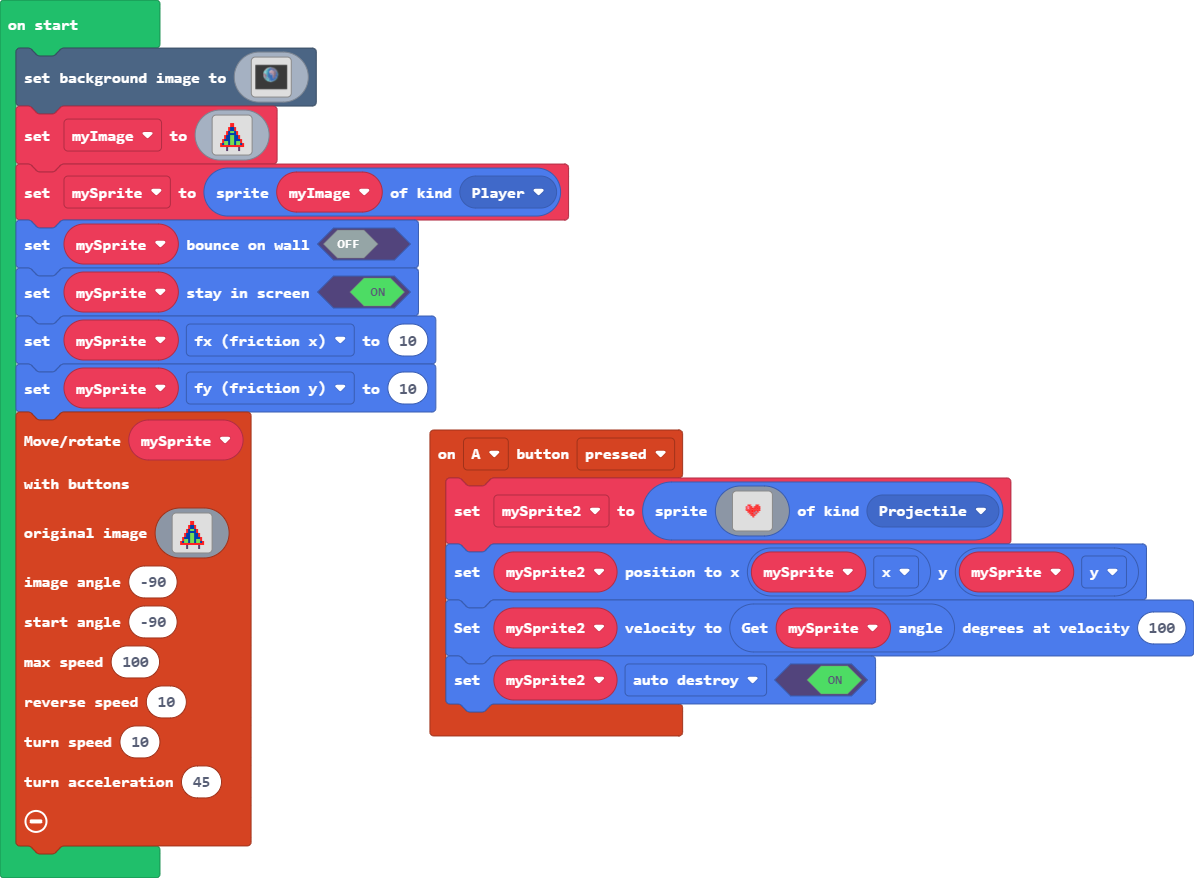
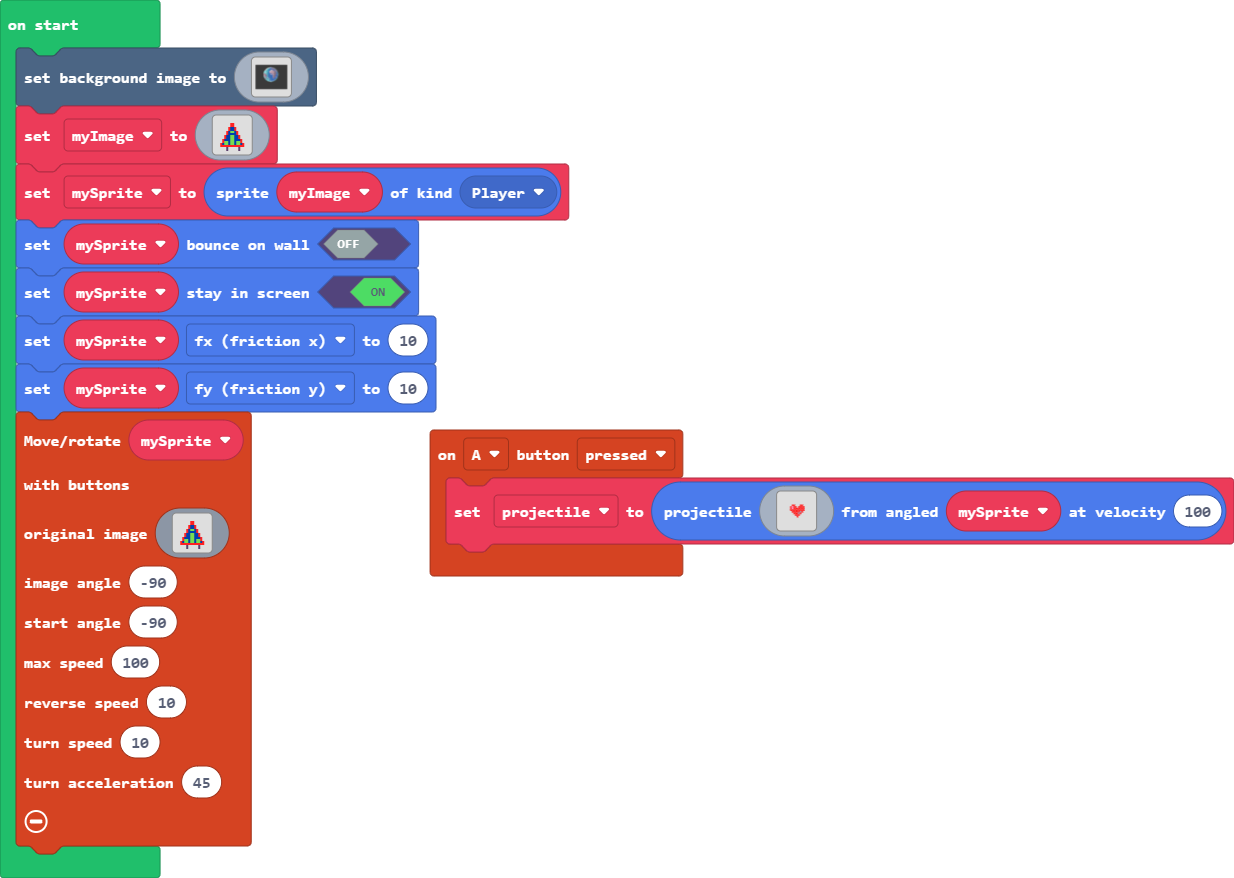
Added CreateProjectileAtAngleFromSprite

Changed region(s): [[0.0, 0.0, 1.0, 0.9533], [0.124, 0.9533, 0.1549, 1.0]]

diff --git a/imagesExt.ts b/imagesExt.ts
@@ -66,14 +66,25 @@ namespace imagesExt {
     }
 
     //% blockNamespace=sprites
-    //% block="Set $sprite=variables_get(mySprite) velocity to $degrees degrees at velocity $velocity"
+    //% block="Set $sprite=variables_get(mySprite) velocity to $angle degrees at velocity $velocity"
     //% group="Physics"
-    export function SetSpriteVelocityInDegrees(sprite: Sprite, degrees: number, velocity: number): void {
-        const rad = degrees * Math.PI / 180;
+    export function SetSpriteVelocityInDegrees(sprite: Sprite, angle: number, velocity: number): void {
+        const rad = angle * Math.PI / 180;
         sprite.vx = Math.cos(rad) * velocity;
         sprite.vy = Math.sin(rad) * velocity;
     }
-    
+
+    //% blockNamespace=sprites
+    //% block="projectile $img from angled $sprite=variables_get(mySprite) at velocity $velocity"
+    //% group="Projectiles"
+    //% img.shadow=screen_image_picker
+    //% blockSetVariable=projectile
+    export function CreateProjectileAtAngleFromSprite(img: Image, sprite: Sprite, velocity: number): Sprite {
+        const proj = sprites.createProjectileFromSprite(img, sprite, 0, 0);
+        SetSpriteVelocityInDegrees(proj, GetSpriteAngle(sprite), velocity);
+        return proj;
+    }
+
     //% block
     //% blockNamespace=math
     export function normalizeDegrees(degrees: number): number {

diff --git a/main.ts b/main.ts
@@ -1,5 +1,5 @@
 controller.A.onEvent(ControllerButtonEvent.Pressed, function () {
-    mySprite2 = sprites.create(img`
+    projectile = imagesExt.CreateProjectileAtAngleFromSprite(img`
         ....................
         ....................
         ....................
@@ -20,12 +20,9 @@ controller.A.onEvent(ControllerButtonEvent.Pressed, function () {
         ....................
         ....................
         ....................
-        `, SpriteKind.Projectile)
-    mySprite2.setPosition(mySprite.x, mySprite.y)
-    imagesExt.SetSpriteVelocityInDegrees(mySprite2, imagesExt.GetSpriteAngle(mySprite), 100)
-    mySprite2.setFlag(SpriteFlag.AutoDestroy, true)
+        `, mySprite, 100)
 })
-let mySprite2: Sprite = null
+let projectile: Sprite = null
 let mySprite: Sprite = null
 scene.setBackgroundImage(storySprites.world)
 let myImage = assets.image`box`
